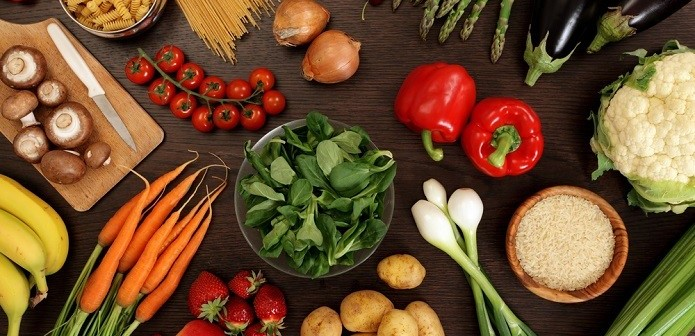
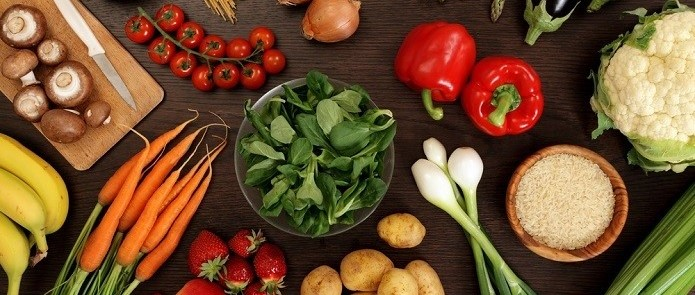
Atualizando img do principal

diff --git a/README.md b/README.md
@@ -96,7 +96,7 @@
 <h2 id="diagrama">
     Estrutura Site Com Diagrama
 </h2>
-<img style="object-fit: cover;" src="img/diagrama.PNG" width="100%"/>
+<img src="img/diagrama.PNG" width="100%"/>
 
 
 
